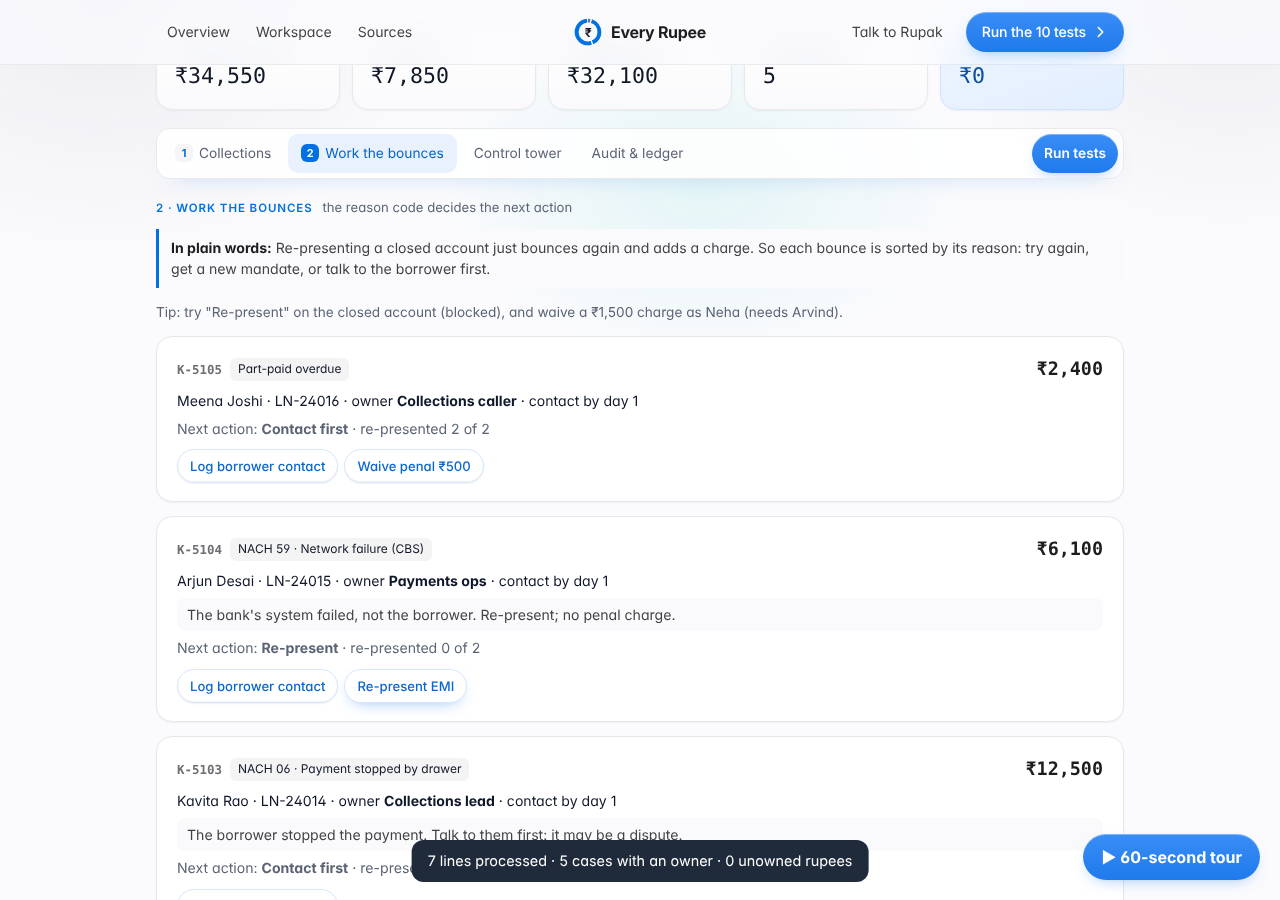
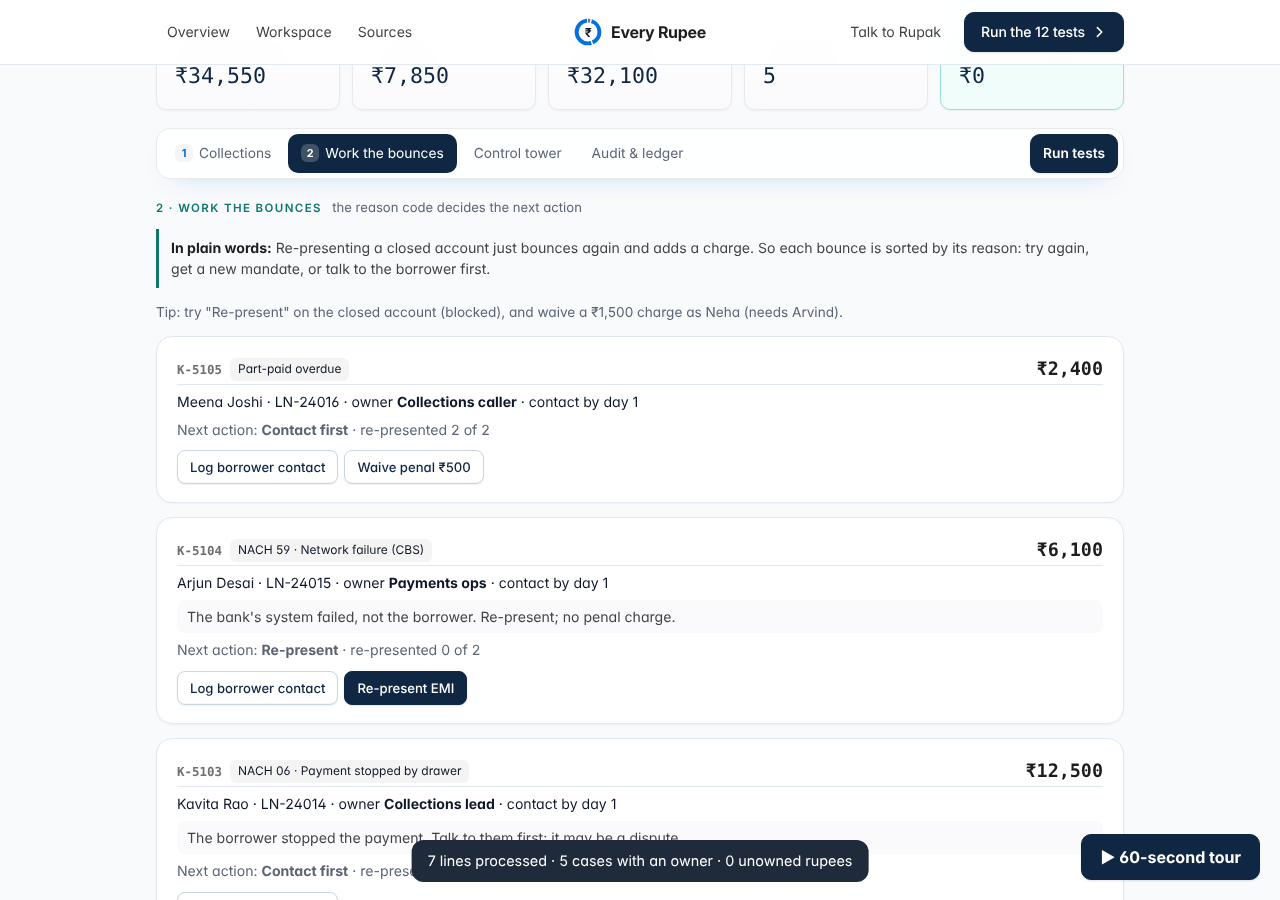
Lender desk: no rupee left unowned after mandate or EMI recovery; penal collection; live unowned KPI; 12 tests
Claude-Session: https://claude.ai/code/session_013E4pYDxfh1tWdWGRm8hcQp

diff --git a/site/lender.js b/site/lender.js
@@ -116,7 +116,12 @@
     post("Receipt", l.id, "Part payment via " + channel + " from " + l.name, lines);
     log("LR-4", l.id + ": " + inr(amt) + " via " + channel + " applied in the disclosed order: " + parts.join(", ") + ". Still overdue " + inr(l.overdue) + (l.penal ? " plus penal charge " + inr(l.penal) : "") + ". No interest charged on the penal charge.");
     if (l.overdue > 0 && !S.cases.some(function (c) { return c.loan === l.id && c.status === "Open"; })) { var c = openCase(l, "Part-paid overdue", "", l.overdue); c.next = "Contact first"; c.owner = "Collections caller"; log("LR-4", l.id + ": " + sma(l.dpd) + " at " + l.dpd + " days past due. Case " + c.id + " to the Collections caller."); }
-    if (l.overdue === 0) { l.dpd = 0; S.cases.forEach(function (c) { if (c.loan === l.id && c.status === "Open") { c.status = "Paid"; c.closedBy = "Payment " + channel; } }); log("LR-4", l.id + ": overdue cleared; loan back to Standard."); }
+    if (l.overdue === 0) {
+      l.dpd = 0;
+      var open = S.cases.filter(function (c) { return c.loan === l.id && c.status === "Open"; });
+      if (l.penal > 0) { open.forEach(function (c) { c.next = "Collect or waive penal"; c.kind = "Penal charge due"; c.code = ""; c.amount = l.penal; c.owner = "Collections caller"; }); if (!open.length) { var pc = openCase(l, "Penal charge due", "", l.penal); pc.next = "Collect or waive penal"; } log("LR-4", l.id + ": EMI overdue cleared; loan back to Standard. Penal charge " + inr(l.penal) + " still due: case stays open with the Collections caller."); }
+      else { open.forEach(function (c) { c.status = "Paid"; c.closedBy = "Payment " + channel; }); log("LR-4", l.id + ": overdue cleared; loan back to Standard."); }
+    }
   }
 
   function act(id, what) {
@@ -132,12 +137,14 @@
         else { if (c.code !== "59") raisePenal(l, c); log("LR-2", l.id + ": re-presentation " + l.retries + " of " + S.settings.retries + " returned again (insufficient balance)."); }
       }
     }
-    else if (what === "mandate") { c.next = "Mandate requested"; c.status = "Mandate sent"; c.closedBy = USERS[S.user]; log("LR-2", c.id + ": fresh e-mandate link sent to " + l.name + " by " + USERS[S.user] + ". EMI stays overdue until collected."); }
+    else if (what === "mandate") { c.next = "Awaiting new mandate"; c.mandateSent = true; c.due = S.day + 3; log("LR-2", c.id + ": fresh e-mandate link sent to " + l.name + " by " + USERS[S.user] + ". Case stays open with Mandate ops; EMI stays overdue until collected."); }
+    else if (what === "mandate-ok") { l.retries = 0; c.next = "Re-present"; c.kind = "New mandate registered"; c.code = ""; log("LR-2", c.id + ": new mandate registered for " + l.name + ". EMI can now be presented on the new mandate."); }
+    else if (what === "collect") { var pp = l.penal; if (!pp) return; l.penal = 0; S.collected += pp; post("Receipt", l.id, "Penal charge collected via UPI link", [["Bank (collections)", pp, 0], ["Penal charges receivable · " + l.name, 0, pp]]); c.status = "Paid"; c.closedBy = USERS[S.user]; log("LR-3", l.id + ": penal charge " + inr(pp) + " collected by payment link. Case closed."); }
     else if (what === "waive") {
       var p = l.penal; if (!p) { flash("No penal charge to waive.", true); return; }
       if (p > S.settings.waiver && c.waiveBy === S.user) { log("LR-5", "Blocked: " + USERS[S.user] + " tried to approve their own waiver of " + inr(p) + " on " + l.id + ". Needs a second approver."); flash("Blocked by maker-checker: switch to the Collections manager.", true); }
       else if (p > S.settings.waiver && !c.waiveBy) { c.waiveBy = S.user; log("LR-5", c.id + ": waiver of " + inr(p) + " recommended by " + USERS[S.user] + "; above " + inr(S.settings.waiver) + ", a second person approves."); flash("Recommended. A second person must approve this waiver.", false); }
-      else { l.penal = 0; post("Journal", l.id, "Penal charge waived", [["Penal charges waived", p, 0], ["Penal charges receivable · " + l.name, 0, p]]); log("LR-5", l.id + ": penal charge " + inr(p) + " waived by " + USERS[S.user] + (c.waiveBy ? " (recommended by " + USERS[c.waiveBy] + ")" : "") + ". The EMI itself is still owed; nothing is written off."); }
+      else { l.penal = 0; post("Journal", l.id, "Penal charge waived", [["Penal charges waived", p, 0], ["Penal charges receivable · " + l.name, 0, p]]); log("LR-5", l.id + ": penal charge " + inr(p) + " waived by " + USERS[S.user] + (c.waiveBy ? " (recommended by " + USERS[c.waiveBy] + ")" : "") + (l.overdue ? ". The EMI itself is still owed; nothing is written off." : ". Nothing else is due.")); if (!l.overdue) { c.status = "Closed"; c.closedBy = USERS[S.user]; } }
     }
     save(); if (!QUIET) render();
   }
@@ -179,7 +186,8 @@
     $("k-col").textContent = S.presented ? inr(S.collected) : "—";
     $("k-od").textContent = S.presented ? inr(od) : "—";
     $("k-open").textContent = open.length;
-    $("k-unowned").textContent = S.presented ? "₹0" : "—";
+    var unowned = S.loans.reduce(function (s, l) { var owned = S.cases.some(function (c) { return c.loan === l.id && c.status === "Open"; }); return s + (owned ? 0 : (l.overdue || 0) + (l.penal || 0)); }, 0);
+    $("k-unowned").textContent = S.presented ? inr(unowned) : "—";
     $("loan-body").innerHTML = S.loans.map(function (l) { var k = sma(l.dpd); return "<tr><td><b>" + esc(l.name) + "</b><br><span class='mono tiny'>" + l.id + " · " + esc(l.product) + "</span></td><td class='mono r'>" + inr(l.emi) + "</td><td class='mono r'>" + (l.overdue ? inr(l.overdue) : "—") + "</td><td class='mono r'>" + (l.penal ? inr(l.penal) : "—") + "</td><td><span class='sma " + k.toLowerCase().replace("-", "") + "'>" + k + "</span><br><span class='tiny'>" + l.dpd + " DPD</span></td></tr>"; }).join("");
     $("case-list").innerHTML = S.cases.length ? S.cases.slice().reverse().map(function (c) {
       var l = loan(c.loan), late = c.status === "Open" && S.day > c.due, k = CODES[c.code];
@@ -187,6 +195,8 @@
         (c.contacted ? "" : "<button class='btn small' data-k='contact' data-id='" + c.id + "'>Log borrower contact</button>") +
         (c.next === "Re-present" ? "<button class='btn small primary' data-k='represent' data-id='" + c.id + "'>Re-present EMI</button>" : "") +
         (c.next === "Fresh mandate" ? "<button class='btn small primary' data-k='mandate' data-id='" + c.id + "'>Send fresh e-mandate</button>" : "") +
+        (c.next === "Awaiting new mandate" ? "<button class='btn small primary' data-k='mandate-ok' data-id='" + c.id + "'>Mark new mandate registered</button>" : "") +
+        (c.next === "Collect or waive penal" ? "<button class='btn small primary' data-k='collect' data-id='" + c.id + "'>Collect penal by payment link</button>" : "") +
         (l.penal ? "<button class='btn small' data-k='waive' data-id='" + c.id + "'>" + (c.waiveBy && c.waiveBy !== S.user ? "Approve waiver (2nd)" : "Waive penal " + inr(l.penal)) + "</button>" : "");
       return "<article class='case" + (c.status !== "Open" ? " closed" : "") + (late ? " late" : "") + "'><header><b class='mono'>" + c.id + "</b><span class='type'>" + (c.code ? "NACH " + c.code + " · " : "") + esc(c.kind) + "</span><b class='mono amt'>" + inr(c.amount) + "</b></header>" +
         "<p>" + esc(c.name) + " · " + c.loan + (c.status === "Open" ? " · owner <b>" + esc(c.owner) + "</b> · contact by day " + c.due + (late ? " <span class='pill bad'>late</span>" : "") : "") + "</p>" +
@@ -225,6 +235,8 @@
     ["LT-07", "LR-5", "Executive approves own ₹1,500 waiver (negative)", "Blocked; needs a second approver; the EMI is still owed", function () { process(L("NACH", "LN-24012", 7200, 0, "04")); var l = loan("LN-24012"); l.penal = 1500; var c = caseOf("LN-24012"); act(c.id, "waive"); act(c.id, "waive"); var blocked = l.penal === 1500; S.user = "checker"; act(c.id, "waive"); return { pass: blocked && l.penal === 0 && l.overdue === 7200, actual: (blocked ? "Blocked for maker" : "Not blocked") + "; after checker penal " + inr(l.penal) + ", EMI owed " + inr(l.overdue) }; }],
     ["LT-08", "LR-1", "UPI payment for an unknown loan (negative)", "Parked in suspense; applied to no loan", function () { process({ channel: "UPI", loan: "LN-29999", umrn: "", due: 0, collected: 2000, code: "" }); return { pass: S.suspense === 2000 && S.loans.every(function (l) { return l.id === "LN-24016" || !l.overdue; }), actual: "Suspense " + inr(S.suspense) }; }],
     ["LT-10", "LR-3", "NACH return 06, payment stopped by the borrower", "Penal charge held until contact; raised only after", function () { process(L("NACH", "LN-24014", 12500, 0, "06")); var l = loan("LN-24014"), held = l.penal === 0, c = caseOf("LN-24014"); act(c.id, "contact"); return { pass: held && l.penal === 500 && c.owner === "Collections lead", actual: "Before contact " + (held ? "no charge" : "charged") + "; after " + inr(l.penal) }; }],
+    ["LT-11", "LR-2, LR-4", "Dead mandate: fresh mandate sent", "Case stays open with an owner until the EMI is collected", function () { process(L("NACH", "LN-24013", 3900, 0, "01")); var c = caseOf("LN-24013"); act(c.id, "mandate"); return { pass: c.status === "Open" && c.next === "Awaiting new mandate" && loan("LN-24013").overdue === 3900, actual: c.status + ", " + c.next + ", overdue " + inr(loan("LN-24013").overdue) }; }],
+    ["LT-12", "LR-3, LR-4", "EMI recovered on re-presentation, penal still due", "Loan back to Standard; penal stays owned until collected or waived", function () { process(L("NACH", "LN-24012", 7200, 0, "04")); var c = caseOf("LN-24012"); act(c.id, "represent"); var l = loan("LN-24012"); var ok1 = l.overdue === 0 && c.status === "Open" && l.penal === 500; act(c.id, "collect"); return { pass: ok1 && c.status === "Paid" && l.penal === 0 && balanced(), actual: "After EMI: " + c.next + "; after collection: " + c.status }; }],
     ["LT-09", "LR-4", "Unpaid EMI ages 31 days", "Reclassified SMA-0 to SMA-1; case escalated after missed contact", function () { process(L("NACH", "LN-24012", 7200, 0, "04")); for (var i = 0; i < 30; i++) nextDay(); var l = loan("LN-24012"), c = caseOf("LN-24012"); return { pass: sma(l.dpd) === "SMA-1" && c.escalated, actual: l.dpd + " DPD, " + sma(l.dpd) + ", owner " + c.owner }; }]
   ];
   function runUAT() {

diff --git a/site/lender.html b/site/lender.html
@@ -188,7 +188,7 @@ td,th{padding:12px 14px!important}
 <header class="ph"><div class="dk phin">
   <nav class="phl"><a href="./">Overview</a><a href="#work">Workspace</a><a href="sources.html">Sources</a></nav>
   <a class="plogo" href="./" aria-label="Every Rupee home"><svg width="28" height="28" xmlns="http://www.w3.org/2000/svg" viewBox="0 0 32 32" role="img" aria-label="Every Rupee"><circle cx="16" cy="16" r="13" fill="none" stroke="#64748B" stroke-width="4.5" stroke-dasharray="2.48 79.20" transform="rotate(-90 16 16)"/><circle cx="16" cy="16" r="13" fill="none" stroke="#0071E3" stroke-width="4.5" stroke-dasharray="31.07 50.61" stroke-dashoffset="-4.08" transform="rotate(-90 16 16)"/><circle cx="16" cy="16" r="13" fill="none" stroke="#0071E3" stroke-width="4.5" stroke-dasharray="43.32 38.36" stroke-dashoffset="-36.76" transform="rotate(-90 16 16)"/><text x="16" y="21.2" text-anchor="middle" font-family="Inter,Arial,sans-serif" font-weight="700" font-size="14" fill="#111827">₹</text></svg><span>Every Rupee</span></a>
-  <div class="phr"><a class="pt" href="mailto:rupakr2g@gmail.com?subject=Every%20Rupee%20%E2%80%94%20let%27s%20talk">Talk to Rupak</a><button class="pb g" type="button" onclick="document.getElementById('run-uat').click()">Run the 10 tests<svg viewBox="0 0 16 16" aria-hidden="true"><path d="M5 3l5 5-5 5" fill="none" stroke="currentColor" stroke-width="1.8" stroke-linecap="round" stroke-linejoin="round"/></svg></button></div>
+  <div class="phr"><a class="pt" href="mailto:rupakr2g@gmail.com?subject=Every%20Rupee%20%E2%80%94%20let%27s%20talk">Talk to Rupak</a><button class="pb g" type="button" onclick="document.getElementById('run-uat').click()">Run the 12 tests<svg viewBox="0 0 16 16" aria-hidden="true"><path d="M5 3l5 5-5 5" fill="none" stroke="currentColor" stroke-width="1.8" stroke-linecap="round" stroke-linejoin="round"/></svg></button></div>
 </div></header>
 
 <div class="modes dk"><span>Mode</span><a href="desk.html">Brand · distributor payments</a><a class="on" href="lender.html">Lender · loan repayments</a></div>
@@ -207,7 +207,7 @@ td,th{padding:12px 14px!important}
     <li><i>4</i><div><b>Own the overdue</b><span>Each overdue loan has an owner, an RBI SMA bucket and a contact deadline.</span></div></li>
    </ol>
   </div>
-  <button class="btn primary" id="run-uat" type="button" hidden style="display:none!important">Run the 10 tests</button>
+  <button class="btn primary" id="run-uat" type="button" hidden style="display:none!important">Run the 12 tests</button>
 </div></section>
 <div class="bar-top"><div class="dk row" style="width:100%">
   <span class="cbl">Controls</span><span class="day" id="day">Day 0</span>
@@ -298,7 +298,7 @@ var S=[
 {h:"Today's file comes in",p:"One EMI came in, four bounced, one borrower paid part by UPI, and ₹2,000 matches no loan, so it sits in suspense instead of being guessed onto someone's account.",go:function(){if(!document.querySelector('#case-list article'))q('#load-sample').click();setTimeout(function(){LSHOW('#l-in');hl('#loan-body')},150)}},
 {h:"The reason code decides",p:"Each bounce carries an NPCI code. Code 01 (account closed) needs a fresh mandate: re-presenting would just bounce again. Code 59 (bank's network) is retried with no charge. Code 06 (borrower stopped it) means talk first.",go:function(){LSHOW('#l-cases');hl('#case-list')}},
 {h:"Charges stay fair",p:"Penal charges are kept separate from the loan and earn no interest, as RBI requires. A waiver above ₹1,000 needs a second person. Nothing is ever written off by a rule.",go:function(){LSHOW('#l-cases');hl('#case-list article')}},
-{h:"The collections head's view",p:"Overdue by RBI bucket (SMA-0, 1 and 2), dead mandates, money in suspense, and every posting as a balanced voucher. Tap Run tests: 10 checks, including the ones that must be blocked.",go:function(){LSHOW('#l-tower');hl('#tower-body')}}];
+{h:"The collections head's view",p:"Overdue by RBI bucket (SMA-0, 1 and 2), dead mandates, money in suspense, and every posting as a balanced voucher. Tap Run tests: 12 checks, including the ones that must be blocked.",go:function(){LSHOW('#l-tower');hl('#tower-body')}}];
 var i=0,T=q('#tour'),B=q('#tourbtn');
 function show(){var x=S[i];x.go();setTimeout(function(){q('#tn').textContent=i?'STEP '+i+' OF '+(S.length-1):'START HERE';q('#th').textContent=x.h;q('#tp').textContent=x.p;q('#tgo').textContent=!i?'Show me →':i<S.length-1?'Next →':'Finish';q('#tbk').hidden=i<2},220)}
 B.onclick=function(){i=0;T.hidden=false;B.hidden=true;show()};q('#tgo').onclick=function(){if(i<S.length-1){i++;show()}else{T.hidden=true;B.hidden=false;hl(null)}};q('#tbk').onclick=function(){if(i>1){i--;show()}};q('#tx').onclick=function(){T.hidden=true;B.hidden=false;hl(null)};

diff --git a/site/index.html b/site/index.html
@@ -394,7 +394,7 @@ footer{border-top:1px solid #E2E8F0}
     <tr><th>How it ends</th><td>Silent write-off, or never</td><td>Credit note or recovery, with a posting reference</td></tr>
     <tr><th>Audit trail</th><td>Rebuilt from inboxes</td><td>Every action logged by name and time</td></tr>
   </tbody></table><p class="cap">Illustrative: one gap from the sample data, traced through the workflow. "Today" is the common manual pattern, not a measured baseline.</p></div>
-  <p class="prf">0 auto write-offs · maker-checker above ₹10,000 · 14 rules, 25 tests across brand and lender modes, run in the browser</p>
+  <p class="prf">0 auto write-offs · maker-checker above ₹10,000 · 14 rules, 27 tests across brand and lender modes, run in the browser</p>
   <p class="trk" id="trace">Traceability · from a public filing to a running control</p>
   <ol class="tr6">
     <li><small>Filing</small><b>Receivables +14.0% vs revenue +8.8%</b><span>Cello World, FY25→FY26</span></li>
@@ -457,7 +457,7 @@ footer{border-top:1px solid #E2E8F0}
     <div class="pane"><h3>How I'd work from week one</h3><ol class="pts">
       <li><b>Evidence first.</b> Every fact dated and sourced.</li>
       <li><b>One owner per gap.</b> One decision, one deadline.</li>
-      <li><b>Testable rules.</b> 14 rules, 25 tests, "must block" cases included.</li>
+      <li><b>Testable rules.</b> 14 rules, 27 tests, "must block" cases included.</li>
       <li><b>Controls built in.</b> Maker-checker, no auto write-offs. Zero SOX findings at HDFC.</li></ol></div>
     <div class="pane"><h3>Where it could fail, and the fix</h3><ol class="pts r">
       <li><b>Distributors pay the old account.</b> Keep it open a quarter; Sales gets a weekly list.</li>

diff --git a/site/onepager.html b/site/onepager.html
@@ -68,7 +68,7 @@
         <li>9 business rules (BR-1 to BR-9) and a reason-code evidence matrix</li>
         <li>An executable specification: the rules running as a desk, with 11 acceptance tests that pass (everyrupee-o2c.vercel.app/desk.html)</li>
         <li>7 user stories with Given/When/Then acceptance criteria</li>
-        <li>15 UAT cases, including negative control tests; plus a lender mode for NACH bounces with 5 rules and 10 tests</li>
+        <li>15 UAT cases, including negative control tests; plus a lender mode for NACH bounces with 5 rules and 12 tests</li>
         <li>Traceability from pain point and research to requirement and test</li>
         <li>RACI across AR, Finance, Sales, IT and Audit</li>
       </ul>

diff --git a/README.md b/README.md
@@ -24,7 +24,7 @@ Full sources and what the project does not claim: [sources.html](https://everyru
 | **The desk** | Load a sample bank statement (or upload a CSV, read only in your browser), classify short-payments, work cases as Asha in AR, approve, issue credit notes, see the audit trail |
 | **9 business rules** | BR-1 to BR-9: payer matching, TDS split, scheme and damage validation, maker-checker, balanced ledger postings, GST credit notes, escalation of unbudgeted schemes |
 | **15 UAT tests** | Run in the browser in one click, including the cases that must be blocked: [desk.html?uat=1](https://everyrupee-o2c.vercel.app/desk.html?uat=1) |
-| **Lender mode** | [lender.html](https://everyrupee-o2c.vercel.app/lender.html): NACH returns classified by NPCI reason code, penal charges kept separate (RBI, Aug 2023), SMA buckets, maker-checker on waivers; 5 rules, 10 tests |
+| **Lender mode** | [lender.html](https://everyrupee-o2c.vercel.app/lender.html): NACH returns classified by NPCI reason code, penal charges kept separate (RBI, Aug 2023), SMA buckets, maker-checker on waivers; 5 rules, 12 tests |
 | **Ledger** | Every receipt, TDS line and credit note posts a balanced voucher; journal exports as CSV |
 | **Documents** | [BRD (PDF)](site/Cello_O2C_BRD.pdf) · [One-pager (PDF)](site/Cello_O2C_One_Pager.pdf) · [Case study](https://everyrupee-o2c.vercel.app/case-study.html) |
 
